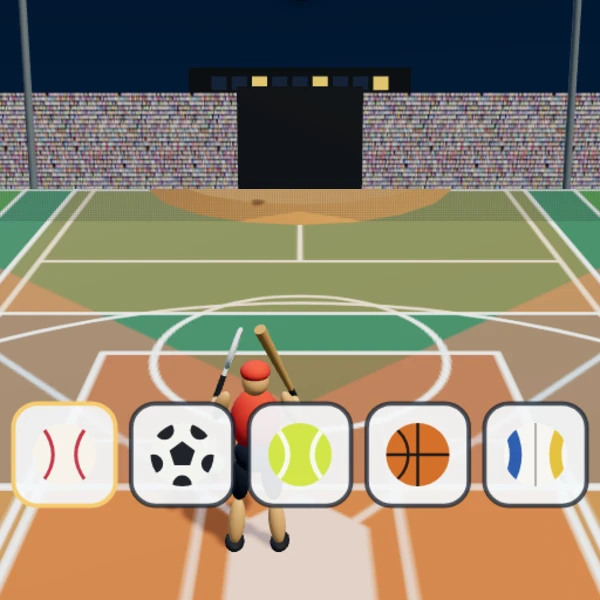
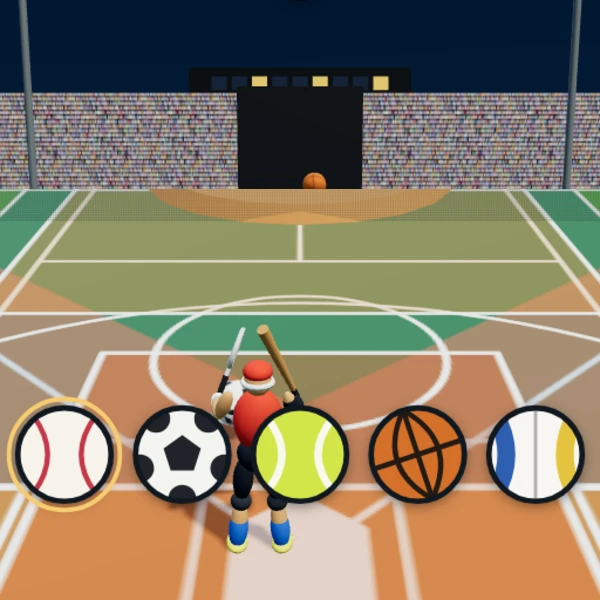
同時球技5種: 5競技ぶんの装備を揃え、ボタンを球そのものにする
- 装備を5競技に割り当てた。入切でそのまま消える
  野球＝バットと帽子、サッカー＝長いソックスとスパイク、
  テニス＝ラケットと手首のバンド、バスケ＝ヘッドバンドと右腕のスリーブ、
  バレー＝両ひざのひざあて
- 下のボタンは白い角丸をやめ、球そのものに縁と影を付けた形にした。
  白い球が白い下地に埋もれていたのを直す。触る広さは変えていない
- バスケットボールの模様を直した。縦線が継ぎ目と重なっていたのを外し、
  丸い継ぎ目を左右に振り分ける。ボタンの絵は少し傾けて地球儀に見えないようにした

制作中の固定リンクも doji5-20260920124443 に更新。

diff --git a/preview/index.html b/preview/index.html
@@ -3,7 +3,7 @@
 <head>
 <meta charset="UTF-8">
 <meta name="robots" content="noindex,nofollow">
-<meta name="preview-version" content="doji5-20260920123545">
+<meta name="preview-version" content="doji5-20260920124443">
 <meta name="viewport" content="width=device-width, initial-scale=1, maximum-scale=1, user-scalable=no">
 <title>同時球技5種</title>
 <style>
@@ -27,12 +27,12 @@
   <button id="start" type="button">START</button>
   <button id="share-button" type="button" aria-label="Xでシェア" hidden></button>
 </div></div>
-<script src="../games/random-bowling/vendor/three.min.js?v=doji5-20260920123545"></script>
-<script src="./scene.js?v=doji5-20260920123545"></script>
-<script src="../games/share.js?v=doji5-20260920123545"></script>
-<script src="../games/result-actions.js?v=doji5-20260920123545"></script>
-<script src="../games/action-icons.js?v=doji5-20260920123545"></script>
-<script src="../games/pad.js?v=doji5-20260920123545"></script>   <!-- ジョイパッドと、絵の外のタップ -->
+<script src="../games/random-bowling/vendor/three.min.js?v=doji5-20260920124443"></script>
+<script src="./scene.js?v=doji5-20260920124443"></script>
+<script src="../games/share.js?v=doji5-20260920124443"></script>
+<script src="../games/result-actions.js?v=doji5-20260920124443"></script>
+<script src="../games/action-icons.js?v=doji5-20260920124443"></script>
+<script src="../games/pad.js?v=doji5-20260920124443"></script>   <!-- ジョイパッドと、絵の外のタップ -->
 <script>
 /* 同時球技5種。
    野球・サッカー・テニス・バスケ・バレーの球が、ぜんぶ同じ場所へ次々に飛んでくる。
@@ -505,12 +505,18 @@
         ctx.stroke();
       });
     } else if (kind === "basket") {
-      ctx.strokeStyle = "#231a14"; ctx.lineWidth = r * .09;
+      /* 縦横の継ぎ目と、そのあいだで左右へふくらむ継ぎ目 */
+      ctx.rotate(-.32);                            /* 真横真縦だと地球儀に見えるので傾ける */
+      ctx.strokeStyle = "#231a14"; ctx.lineWidth = r * .11;
       ctx.beginPath(); ctx.moveTo(-r, 0); ctx.lineTo(r, 0); ctx.stroke();
       ctx.beginPath(); ctx.moveTo(0, -r); ctx.lineTo(0, r); ctx.stroke();
       [-1, 1].forEach(function (s) {
-        ctx.beginPath(); ctx.arc(s * r * 1.35, 0, r * 1.05, -Math.PI * .5, Math.PI * .5); ctx.stroke();
+        ctx.beginPath();
+        ctx.moveTo(0, -r);
+        ctx.quadraticCurveTo(s * r * .92, 0, 0, r);
+        ctx.stroke();
       });
+      ctx.rotate(.32);
     } else {
       ctx.lineWidth = r * .38;
       [["#2f5fb0", -1], ["#e5c33f", 1]].forEach(function (v) {
@@ -527,29 +533,36 @@
     ctx.restore();
   }
 
-  /* 下の5ボタン。はじめの画面では入切の選び、遊びのあいだは押しどころ */
+  /* 下の5ボタン。球そのものが押しどころ。白い球が背景に埋もれないよう縁を付ける */
   function drawPads(all) {
     var list = pads(all);
     list.forEach(function (b, i) {
       var lit = flash[b.kind] > 0 ? flash[b.kind] / .16 : 0;
       var off = all && !on[b.kind];
-      var r = b.w / 2;
+      var r = b.w / 2 - 4;
       ctx.save();
-      ctx.translate(b.x + r, b.y + r);
-      ctx.scale(1 - lit * .08, 1 - lit * .08);
-      roundRect(-r, -r, b.w, b.h, 22);
-      ctx.fillStyle = off ? "rgba(12,16,22,.42)" : "rgba(244,247,250,.92)";
-      ctx.fill();
-      ctx.lineWidth = 4;
-      ctx.strokeStyle = off ? "rgba(255,255,255,.28)"
-        : (keyMode && i === Math.min(cursor, list.length - 1) ? "#f7cc71" : "rgba(22,32,46,.75)");
-      ctx.stroke();
-      ctx.globalAlpha = off ? .3 : 1;
-      drawBall2D(b.kind, 0, 0, r * .62);
+      ctx.translate(b.x + b.w / 2, b.y + b.h / 2);
+      ctx.scale(1 - lit * .1, 1 - lit * .1);
+      /* 影で地面から浮かせる。切ってあるときはこの暗い下地が透けて沈む */
+      ctx.save();
+      ctx.shadowColor = "rgba(0,0,0,.55)"; ctx.shadowBlur = 12; ctx.shadowOffsetY = 3;
+      ctx.beginPath(); ctx.arc(0, 0, r, 0, Math.PI * 2);
+      ctx.fillStyle = "#0f151d"; ctx.fill();
+      ctx.restore();
+      ctx.globalAlpha = off ? .26 : 1;
+      drawBall2D(b.kind, 0, 0, r);
       ctx.globalAlpha = 1;
+      ctx.beginPath(); ctx.arc(0, 0, r, 0, Math.PI * 2);
+      ctx.lineWidth = 5;
+      ctx.strokeStyle = off ? "rgba(226,236,246,.5)" : "#101820";
+      ctx.stroke();
+      if (keyMode && i === Math.min(cursor, list.length - 1)) {
+        ctx.beginPath(); ctx.arc(0, 0, r + 8, 0, Math.PI * 2);
+        ctx.lineWidth = 4; ctx.strokeStyle = "#f7cc71"; ctx.stroke();
+      }
       if (lit > 0) {
-        roundRect(-r, -r, b.w, b.h, 22);
-        ctx.fillStyle = "rgba(255,255,255," + (lit * .5) + ")"; ctx.fill();
+        ctx.beginPath(); ctx.arc(0, 0, r, 0, Math.PI * 2);
+        ctx.fillStyle = "rgba(255,255,255," + (lit * .45) + ")"; ctx.fill();
       }
       ctx.restore();
     });
@@ -735,10 +748,10 @@
 <script>
 if (document.head && /^(localhost|127\.0\.0\.1)$/.test(location.hostname) && !/[?&]recorder-cli=1(?:&|$)/.test(location.search)) {
   var recorderScript = document.createElement("script");
-  recorderScript.src = "../games/_tools/recorder-ui.js?v=doji5-20260920123545";
+  recorderScript.src = "../games/_tools/recorder-ui.js?v=doji5-20260920124443";
   document.head.appendChild(recorderScript);
 }
 </script>
-<script src="./auto-reload.js?v=doji5-20260920123545"></script>
+<script src="./auto-reload.js?v=doji5-20260920124443"></script>
 </body>
 </html>

diff --git a/games/_doji5/scene.js b/games/_doji5/scene.js
@@ -192,11 +192,13 @@ var ZDoji5Scene = (function () {
     } else if (kind === 'basket') {
       c.fillStyle = '#d4702a'; c.fillRect(0, 0, 256, 128);
       c.strokeStyle = '#231a14'; c.lineWidth = 4;
+      /* 赤道が1本、極を通る継ぎ目が1本（左右に分かれて2本に見える）、
+         そのあいだにふくらんだ継ぎ目が2本。重ならないように置く。 */
       c.beginPath(); c.moveTo(0, 64); c.lineTo(256, 64); c.stroke();
-      [0, 64, 128, 192].forEach(function (p) { c.beginPath(); c.moveTo(p, 0); c.lineTo(p, 128); c.stroke(); });
-      [64, 192].forEach(function (p) {
+      [0, 128, 256].forEach(function (p) { c.beginPath(); c.moveTo(p, 0); c.lineTo(p, 128); c.stroke(); });
+      [[64, 1], [192, -1]].forEach(function (v) {
         c.beginPath();
-        for (var y = 0; y <= 128; y++) c.lineTo(p + Math.sin(y / 128 * Math.PI) * 26, y);
+        for (var y = 0; y <= 128; y++) c.lineTo(v[0] + v[1] * Math.sin(y / 128 * Math.PI) * 26, y);
         c.stroke();
       });
     } else {
@@ -248,6 +250,30 @@ var ZDoji5Scene = (function () {
       blob(kn, .072, .21, .075, skin, -.2);
       blob(kn, .085, .05, .15, shoe, -.42, .06);
     });
+    /* 競技ごとの持ちもの・身につけるもの。入切で見え隠れさせる */
+    var worn = { yakyu: [], soccer: [], tennis: [], basket: [], volley: [] };
+    if (opt.gear) {
+      worn.yakyu.push(cap, visor);                            /* 帽子は野球のもの */
+      ['L', 'R'].forEach(function (tag) {
+        var kn = parts['knee' + tag];
+        /* サッカー: 長いソックスとスパイク */
+        worn.soccer.push(blob(kn, .083, .17, .086, mat('#2a6fd6', .75), -.27));
+        worn.soccer.push(blob(kn, .094, .056, .165, mat('#e8e24a', .6), -.425, .065));
+        /* バレー: ひざあて */
+        worn.volley.push(blob(kn, .09, .078, .092, mat('#2b3340', .8), -.02));
+      });
+      /* バスケ: ヘッドバンドと、右腕のスリーブ */
+      var band = new T.Mesh(new T.TorusGeometry(.119, .027, 6, 16), mat('#f0f3f7', .7));
+      band.rotation.x = Math.PI / 2; band.position.set(0, .565, 0); band.castShadow = true;
+      torso.add(band); worn.basket.push(band);
+      worn.basket.push(blob(parts.shoulderR, .068, .155, .068, mat('#1b2330', .8), -.15));
+      worn.basket.push(blob(parts.elbowR, .061, .145, .061, mat('#1b2330', .8), -.13));
+      /* テニス: ラケットを持つ手のリストバンド */
+      var wristband = new T.Mesh(CYL, mat('#f2f5f8', .7));
+      wristband.scale.set(.062, .055, .062); wristband.position.y = .04;
+      wristband.castShadow = true; parts.handL.add(wristband);
+      worn.tennis.push(wristband);
+    }
     var batParts = [], racketParts = [];
     if (opt.bat) {                                            /* 右手はバット。手首から上へ伸ばす */
       var bat = new T.Mesh(new T.CylinderGeometry(.05, .023, .92, 12), mat('#c49055', .55));
@@ -273,8 +299,10 @@ var ZDoji5Scene = (function () {
       var glove = new T.Mesh(SPHERE, mat('#8a5a2f', .8));
       glove.scale.set(.13, .15, .07); glove.castShadow = true; parts.handL.add(glove);
     }
+    worn.yakyu = worn.yakyu.concat(batParts);
+    worn.tennis = worn.tennis.concat(racketParts);
     scene.add(root);
-    return { root: root, parts: parts, bat: batParts, racket: racketParts };
+    return { root: root, parts: parts, worn: worn };
   }
 
   /* ============ 舞台 ============ */
@@ -494,7 +522,7 @@ var ZDoji5Scene = (function () {
     });
 
     /* 選手と投手 */
-    this.player = makeAthlete(this.scene, { shirt: '#d8402f', pants: '#1f2a3a', bat: true, racket: true });
+    this.player = makeAthlete(this.scene, { shirt: '#d8402f', pants: '#1f2a3a', bat: true, racket: true, gear: true });
     this.pitcher = makeAthlete(this.scene, { shirt: '#f0f2f0', pants: '#39506e', glove: true });
     this.pitcher.root.position.set(0, .28, 11);
     this.pitcher.root.rotation.y = Math.PI;
@@ -536,9 +564,8 @@ var ZDoji5Scene = (function () {
     key.split(',').forEach(function (k) { if (k) set[k] = 1; });
     Object.keys(this.gear).forEach(function (kind) {
       self.gear[kind].forEach(function (o) { o.visible = !!set[kind]; });
+      self.player.worn[kind].forEach(function (m) { m.visible = !!set[kind]; });
     });
-    this.player.bat.forEach(function (m) { m.visible = !!set.yakyu; });
-    this.player.racket.forEach(function (m) { m.visible = !!set.tennis; });
     this.player.hasBat = !!set.yakyu;
     this.player.hasRacket = !!set.tennis;
     fieldTexture(set);

diff --git a/preview/scene.js b/preview/scene.js
@@ -192,11 +192,13 @@ var ZDoji5Scene = (function () {
     } else if (kind === 'basket') {
       c.fillStyle = '#d4702a'; c.fillRect(0, 0, 256, 128);
       c.strokeStyle = '#231a14'; c.lineWidth = 4;
+      /* 赤道が1本、極を通る継ぎ目が1本（左右に分かれて2本に見える）、
+         そのあいだにふくらんだ継ぎ目が2本。重ならないように置く。 */
       c.beginPath(); c.moveTo(0, 64); c.lineTo(256, 64); c.stroke();
-      [0, 64, 128, 192].forEach(function (p) { c.beginPath(); c.moveTo(p, 0); c.lineTo(p, 128); c.stroke(); });
-      [64, 192].forEach(function (p) {
+      [0, 128, 256].forEach(function (p) { c.beginPath(); c.moveTo(p, 0); c.lineTo(p, 128); c.stroke(); });
+      [[64, 1], [192, -1]].forEach(function (v) {
         c.beginPath();
-        for (var y = 0; y <= 128; y++) c.lineTo(p + Math.sin(y / 128 * Math.PI) * 26, y);
+        for (var y = 0; y <= 128; y++) c.lineTo(v[0] + v[1] * Math.sin(y / 128 * Math.PI) * 26, y);
         c.stroke();
       });
     } else {
@@ -248,6 +250,30 @@ var ZDoji5Scene = (function () {
       blob(kn, .072, .21, .075, skin, -.2);
       blob(kn, .085, .05, .15, shoe, -.42, .06);
     });
+    /* 競技ごとの持ちもの・身につけるもの。入切で見え隠れさせる */
+    var worn = { yakyu: [], soccer: [], tennis: [], basket: [], volley: [] };
+    if (opt.gear) {
+      worn.yakyu.push(cap, visor);                            /* 帽子は野球のもの */
+      ['L', 'R'].forEach(function (tag) {
+        var kn = parts['knee' + tag];
+        /* サッカー: 長いソックスとスパイク */
+        worn.soccer.push(blob(kn, .083, .17, .086, mat('#2a6fd6', .75), -.27));
+        worn.soccer.push(blob(kn, .094, .056, .165, mat('#e8e24a', .6), -.425, .065));
+        /* バレー: ひざあて */
+        worn.volley.push(blob(kn, .09, .078, .092, mat('#2b3340', .8), -.02));
+      });
+      /* バスケ: ヘッドバンドと、右腕のスリーブ */
+      var band = new T.Mesh(new T.TorusGeometry(.119, .027, 6, 16), mat('#f0f3f7', .7));
+      band.rotation.x = Math.PI / 2; band.position.set(0, .565, 0); band.castShadow = true;
+      torso.add(band); worn.basket.push(band);
+      worn.basket.push(blob(parts.shoulderR, .068, .155, .068, mat('#1b2330', .8), -.15));
+      worn.basket.push(blob(parts.elbowR, .061, .145, .061, mat('#1b2330', .8), -.13));
+      /* テニス: ラケットを持つ手のリストバンド */
+      var wristband = new T.Mesh(CYL, mat('#f2f5f8', .7));
+      wristband.scale.set(.062, .055, .062); wristband.position.y = .04;
+      wristband.castShadow = true; parts.handL.add(wristband);
+      worn.tennis.push(wristband);
+    }
     var batParts = [], racketParts = [];
     if (opt.bat) {                                            /* 右手はバット。手首から上へ伸ばす */
       var bat = new T.Mesh(new T.CylinderGeometry(.05, .023, .92, 12), mat('#c49055', .55));
@@ -273,8 +299,10 @@ var ZDoji5Scene = (function () {
       var glove = new T.Mesh(SPHERE, mat('#8a5a2f', .8));
       glove.scale.set(.13, .15, .07); glove.castShadow = true; parts.handL.add(glove);
     }
+    worn.yakyu = worn.yakyu.concat(batParts);
+    worn.tennis = worn.tennis.concat(racketParts);
     scene.add(root);
-    return { root: root, parts: parts, bat: batParts, racket: racketParts };
+    return { root: root, parts: parts, worn: worn };
   }
 
   /* ============ 舞台 ============ */
@@ -494,7 +522,7 @@ var ZDoji5Scene = (function () {
     });
 
     /* 選手と投手 */
-    this.player = makeAthlete(this.scene, { shirt: '#d8402f', pants: '#1f2a3a', bat: true, racket: true });
+    this.player = makeAthlete(this.scene, { shirt: '#d8402f', pants: '#1f2a3a', bat: true, racket: true, gear: true });
     this.pitcher = makeAthlete(this.scene, { shirt: '#f0f2f0', pants: '#39506e', glove: true });
     this.pitcher.root.position.set(0, .28, 11);
     this.pitcher.root.rotation.y = Math.PI;
@@ -536,9 +564,8 @@ var ZDoji5Scene = (function () {
     key.split(',').forEach(function (k) { if (k) set[k] = 1; });
     Object.keys(this.gear).forEach(function (kind) {
       self.gear[kind].forEach(function (o) { o.visible = !!set[kind]; });
+      self.player.worn[kind].forEach(function (m) { m.visible = !!set[kind]; });
     });
-    this.player.bat.forEach(function (m) { m.visible = !!set.yakyu; });
-    this.player.racket.forEach(function (m) { m.visible = !!set.tennis; });
     this.player.hasBat = !!set.yakyu;
     this.player.hasRacket = !!set.tennis;
     fieldTexture(set);

diff --git a/games/_doji5/index.html b/games/_doji5/index.html
@@ -503,12 +503,18 @@
         ctx.stroke();
       });
     } else if (kind === "basket") {
-      ctx.strokeStyle = "#231a14"; ctx.lineWidth = r * .09;
+      /* 縦横の継ぎ目と、そのあいだで左右へふくらむ継ぎ目 */
+      ctx.rotate(-.32);                            /* 真横真縦だと地球儀に見えるので傾ける */
+      ctx.strokeStyle = "#231a14"; ctx.lineWidth = r * .11;
       ctx.beginPath(); ctx.moveTo(-r, 0); ctx.lineTo(r, 0); ctx.stroke();
       ctx.beginPath(); ctx.moveTo(0, -r); ctx.lineTo(0, r); ctx.stroke();
       [-1, 1].forEach(function (s) {
-        ctx.beginPath(); ctx.arc(s * r * 1.35, 0, r * 1.05, -Math.PI * .5, Math.PI * .5); ctx.stroke();
+        ctx.beginPath();
+        ctx.moveTo(0, -r);
+        ctx.quadraticCurveTo(s * r * .92, 0, 0, r);
+        ctx.stroke();
       });
+      ctx.rotate(.32);
     } else {
       ctx.lineWidth = r * .38;
       [["#2f5fb0", -1], ["#e5c33f", 1]].forEach(function (v) {
@@ -525,29 +531,36 @@
     ctx.restore();
   }
 
-  /* 下の5ボタン。はじめの画面では入切の選び、遊びのあいだは押しどころ */
+  /* 下の5ボタン。球そのものが押しどころ。白い球が背景に埋もれないよう縁を付ける */
   function drawPads(all) {
     var list = pads(all);
     list.forEach(function (b, i) {
       var lit = flash[b.kind] > 0 ? flash[b.kind] / .16 : 0;
       var off = all && !on[b.kind];
-      var r = b.w / 2;
+      var r = b.w / 2 - 4;
       ctx.save();
-      ctx.translate(b.x + r, b.y + r);
-      ctx.scale(1 - lit * .08, 1 - lit * .08);
-      roundRect(-r, -r, b.w, b.h, 22);
-      ctx.fillStyle = off ? "rgba(12,16,22,.42)" : "rgba(244,247,250,.92)";
-      ctx.fill();
-      ctx.lineWidth = 4;
-      ctx.strokeStyle = off ? "rgba(255,255,255,.28)"
-        : (keyMode && i === Math.min(cursor, list.length - 1) ? "#f7cc71" : "rgba(22,32,46,.75)");
-      ctx.stroke();
-      ctx.globalAlpha = off ? .3 : 1;
-      drawBall2D(b.kind, 0, 0, r * .62);
+      ctx.translate(b.x + b.w / 2, b.y + b.h / 2);
+      ctx.scale(1 - lit * .1, 1 - lit * .1);
+      /* 影で地面から浮かせる。切ってあるときはこの暗い下地が透けて沈む */
+      ctx.save();
+      ctx.shadowColor = "rgba(0,0,0,.55)"; ctx.shadowBlur = 12; ctx.shadowOffsetY = 3;
+      ctx.beginPath(); ctx.arc(0, 0, r, 0, Math.PI * 2);
+      ctx.fillStyle = "#0f151d"; ctx.fill();
+      ctx.restore();
+      ctx.globalAlpha = off ? .26 : 1;
+      drawBall2D(b.kind, 0, 0, r);
       ctx.globalAlpha = 1;
+      ctx.beginPath(); ctx.arc(0, 0, r, 0, Math.PI * 2);
+      ctx.lineWidth = 5;
+      ctx.strokeStyle = off ? "rgba(226,236,246,.5)" : "#101820";
+      ctx.stroke();
+      if (keyMode && i === Math.min(cursor, list.length - 1)) {
+        ctx.beginPath(); ctx.arc(0, 0, r + 8, 0, Math.PI * 2);
+        ctx.lineWidth = 4; ctx.strokeStyle = "#f7cc71"; ctx.stroke();
+      }
       if (lit > 0) {
-        roundRect(-r, -r, b.w, b.h, 22);
-        ctx.fillStyle = "rgba(255,255,255," + (lit * .5) + ")"; ctx.fill();
+        ctx.beginPath(); ctx.arc(0, 0, r, 0, Math.PI * 2);
+        ctx.fillStyle = "rgba(255,255,255," + (lit * .45) + ")"; ctx.fill();
       }
       ctx.restore();
     });
